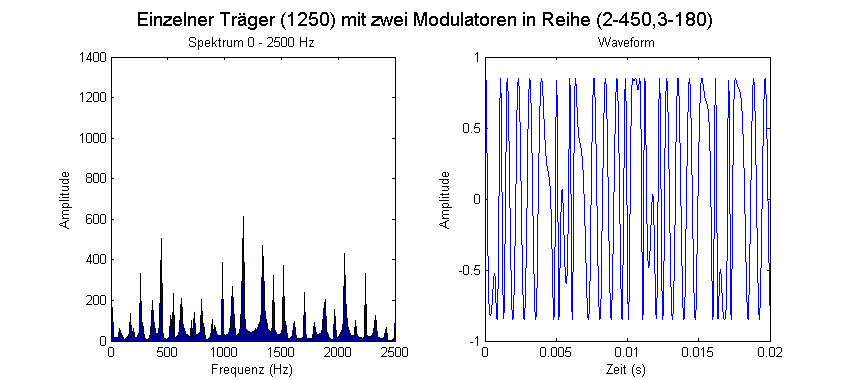
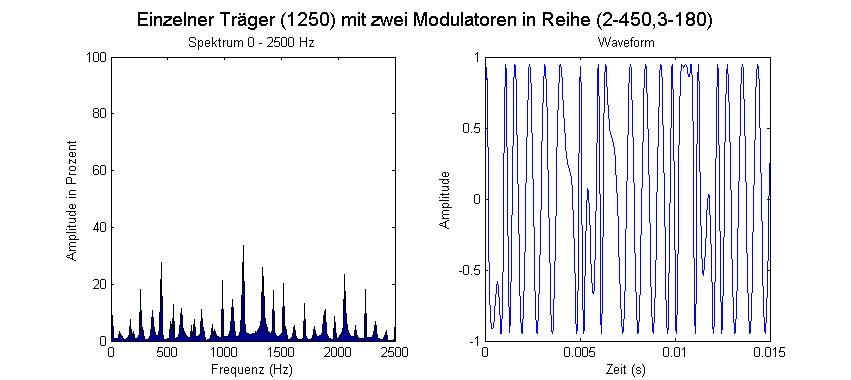
Y-Achsen wie Gary

diff --git a/Dok/Kapitel/EinfacheVskomplexeFMSynthese.tex b/Dok/Kapitel/EinfacheVskomplexeFMSynthese.tex
@@ -172,7 +172,7 @@ Um die Zusammenhänge grafisch zu veranschaulichen, nehmen wir zunächst einen T
 Quelle: Eigene Darstellung in MATLAB
 \end{figure}
 \FloatBarrier
-Man sieht im Spektrum, dass wie erwartet die Trägerfrequenz bei 1250Hz liegt, und das erste Seitenband bei $ 1250 + 450 = 1700Hz$. Die Additionsterme aus \ref{eq:wallofequations} legen nun nahe, dass bei einer Modulation eines Trägers durch zwei parallele Modulatoren jeweils oberhalb und unterhalb jedes von $M1$ erzeugten Seitenbandes in Abständen der Frequenz von $M2$ dessen Seitenbänder liegen sollten. Zum Vergleich betrachten wir also zuerst noch einen Träger mit einer Frequenz, die dem ersten Seitenband von eben, $1700Hz$, entspricht, und modulieren diesen durch $M2 = 180Hz$, da wir so eine Prognose für die Seitenbänder von $M2$ bei einer gemeinsamen Modulation des Trägers erhalten. Beide Modulationsindizes erhalten den Wert $1$, da die Besselfunktionen mit steigender Ordnung für dieses Argument kontinuierlich kleiner werden. Damit werden die Frequenzbänder niedriger Ordnung stets erkennbarer sein als ihre Nachbarn höherer Ordnung, und der Vergleich der beiden gewählten Einzelmodulationen mit der Parallelmodulation gewinnt an Aussagekraft.
+Man sieht im Spektrum, dass wie erwartet die Trägerfrequenz bei 1250Hz liegt, und das erste Seitenband bei $ 1250 + 450 =$ 1700Hz. Die Additionsterme aus Gleichung \ref{eq:wallofequations} legen nun nahe, dass bei einer Modulation eines Trägers durch zwei parallele Modulatoren jeweils oberhalb und unterhalb jedes von $M1$ erzeugten Seitenbandes in Abständen der Frequenz von $M2$ dessen Seitenbänder liegen sollten. Zum Vergleich betrachten wir also zuerst noch einen Träger mit einer Frequenz, die dem ersten Seitenband von eben, 1700Hz, entspricht, und modulieren diesen durch $M2 =$ 180Hz, da wir so eine Prognose für die Seitenbänder von $M2$ bei einer gemeinsamen Modulation des Trägers erhalten. Beide Modulationsindizes erhalten den Wert 1, da die Besselfunktionen mit steigender Ordnung für dieses Argument kontinuierlich kleiner werden. Damit werden die Frequenzbänder niedriger Ordnung stets erkennbarer sein als ihre Nachbarn höherer Ordnung, und der Vergleich der beiden gewählten Einzelmodulationen mit der Parallelmodulation gewinnt an Aussagekraft.
 \FloatBarrier
 \begin{figure} [ht]
 \label{par1}
@@ -256,7 +256,7 @@ Visualisiert in MATLAB zeigt sich, dass sich erwartungsgemäß um jedes Seitenba
 Quelle: Eigene Darstellung in MATLAB
 \end{figure}
 \FloatBarrier
-Nun das Spektrum von $T$ nach der Modulation durch $M1$, moduliert durch $M2$. Zum Nachstellen wurde ein Träger mit 1750Hz moduliert, da dort das erste Seitenband aus obiger Modulation landet, und durch einen Modulator mit den Einstellungen von $M2$ moduliert:
+Nun das Spektrum von $T$ nach der Modulation durch $M1$, moduliert durch $M2$. Zum Nachstellen wurde ein Träger mit 1700Hz moduliert, da dort das erste Seitenband aus obiger Modulation landet, und durch einen Modulator mit den Einstellungen von $M2$ moduliert:
 \FloatBarrier
 \begin{figure} [ht]
 \centering
